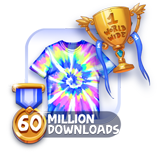
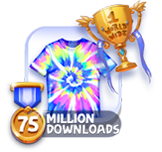
lapaj 75kaaaaa <3

diff --git a/index.html b/index.html
@@ -107,7 +107,7 @@
                                 	<br /><br />
                                 	#1 rank Worldwide with over 3 million downloads in under a week!<br />
 					50 million total downloads in less than 3 months!<br />
-					70 million total lifetime downloads!<br />
+					75 million total lifetime downloads!<br />
 									<br /><br />
                                 </div>
                             </div>
